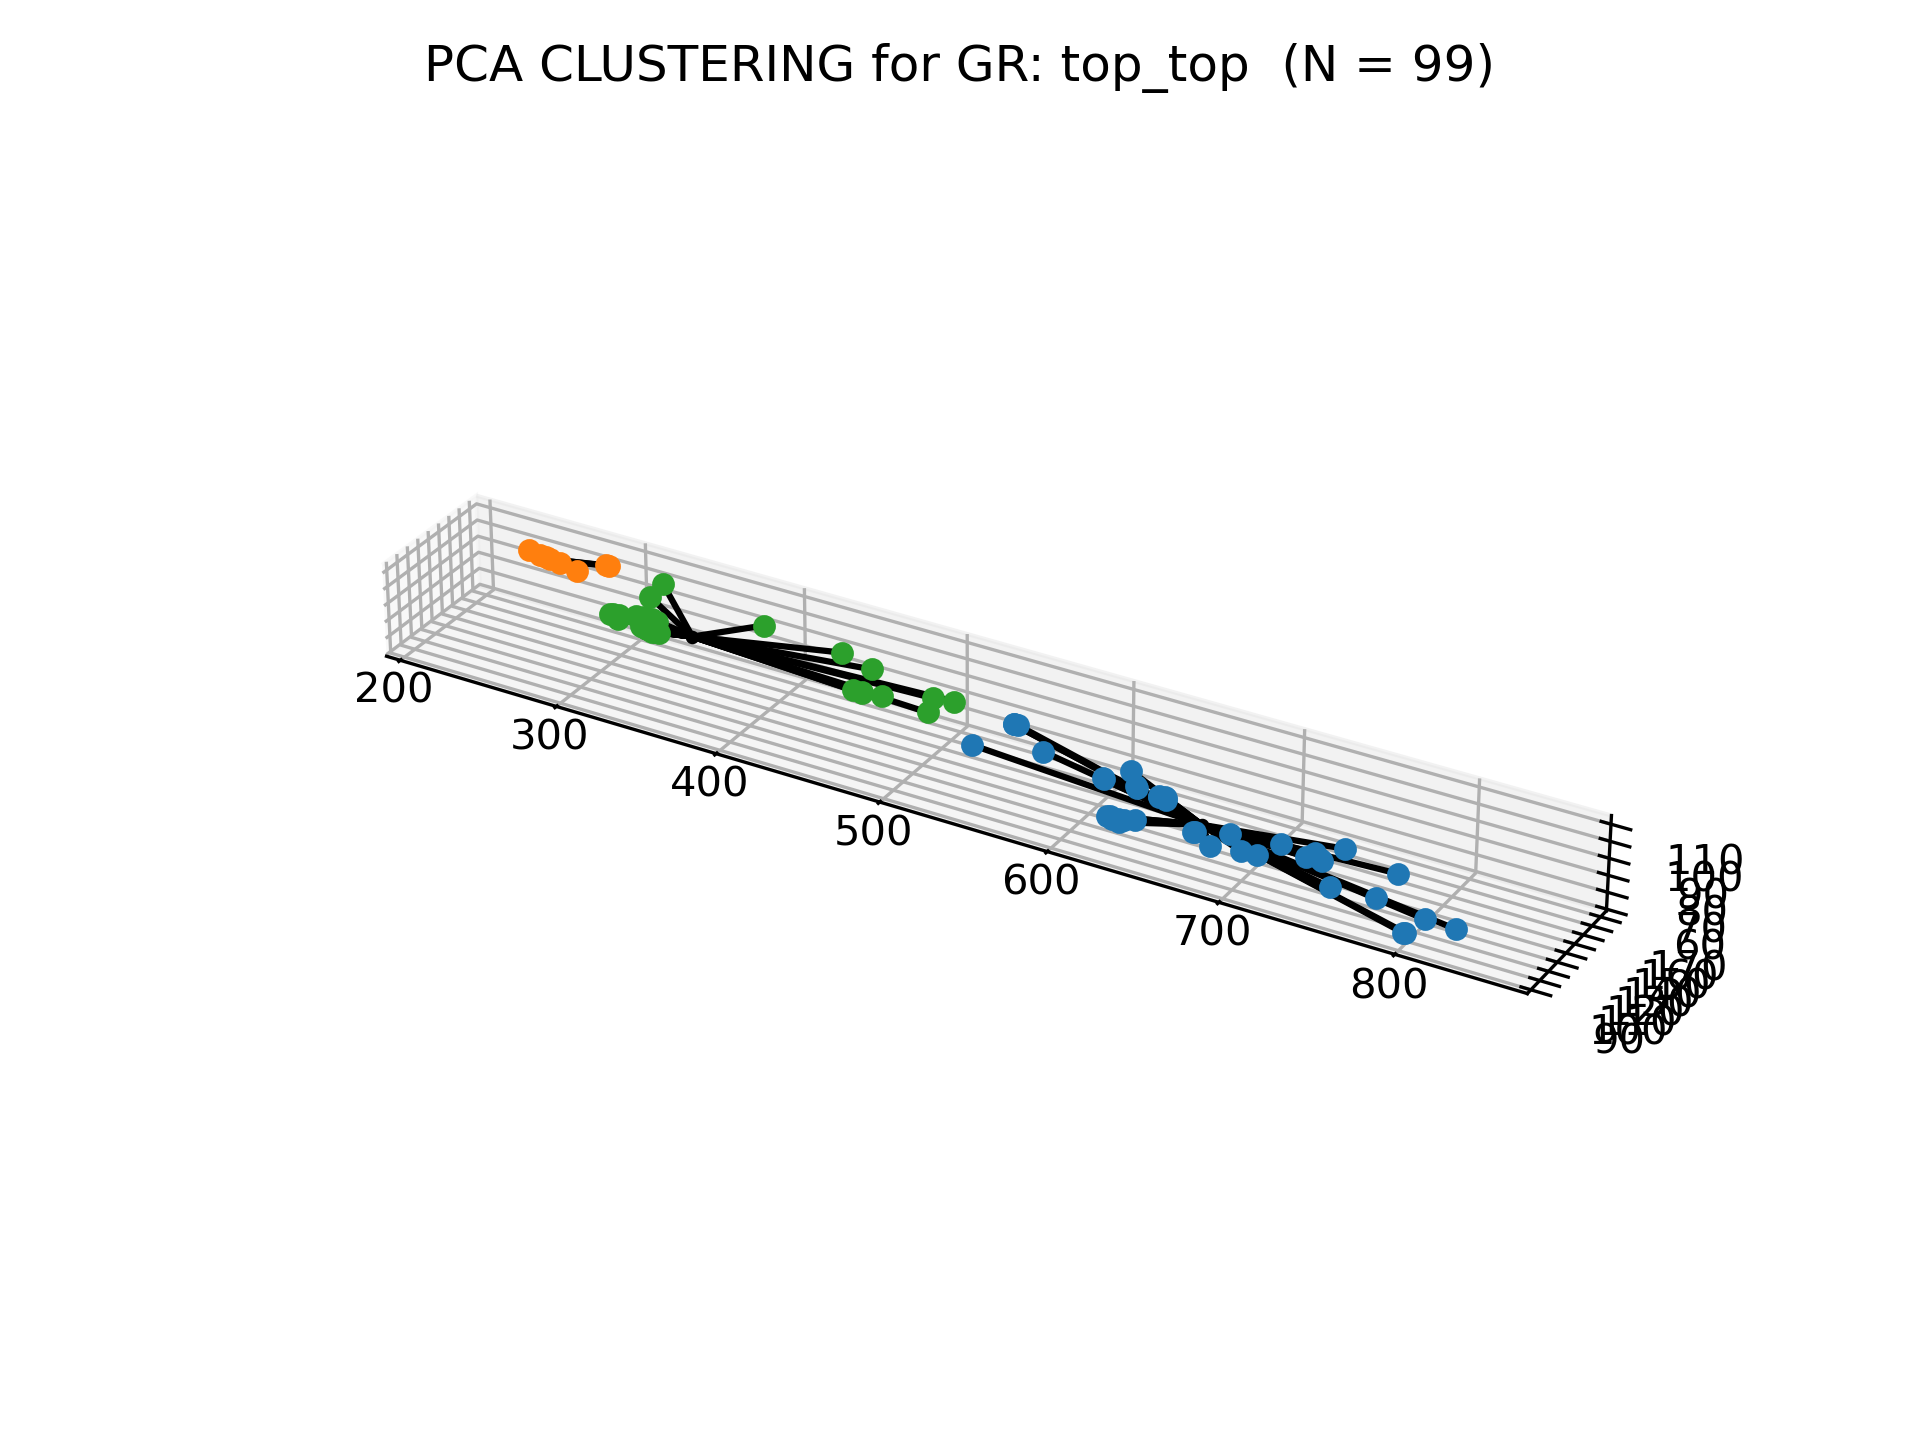
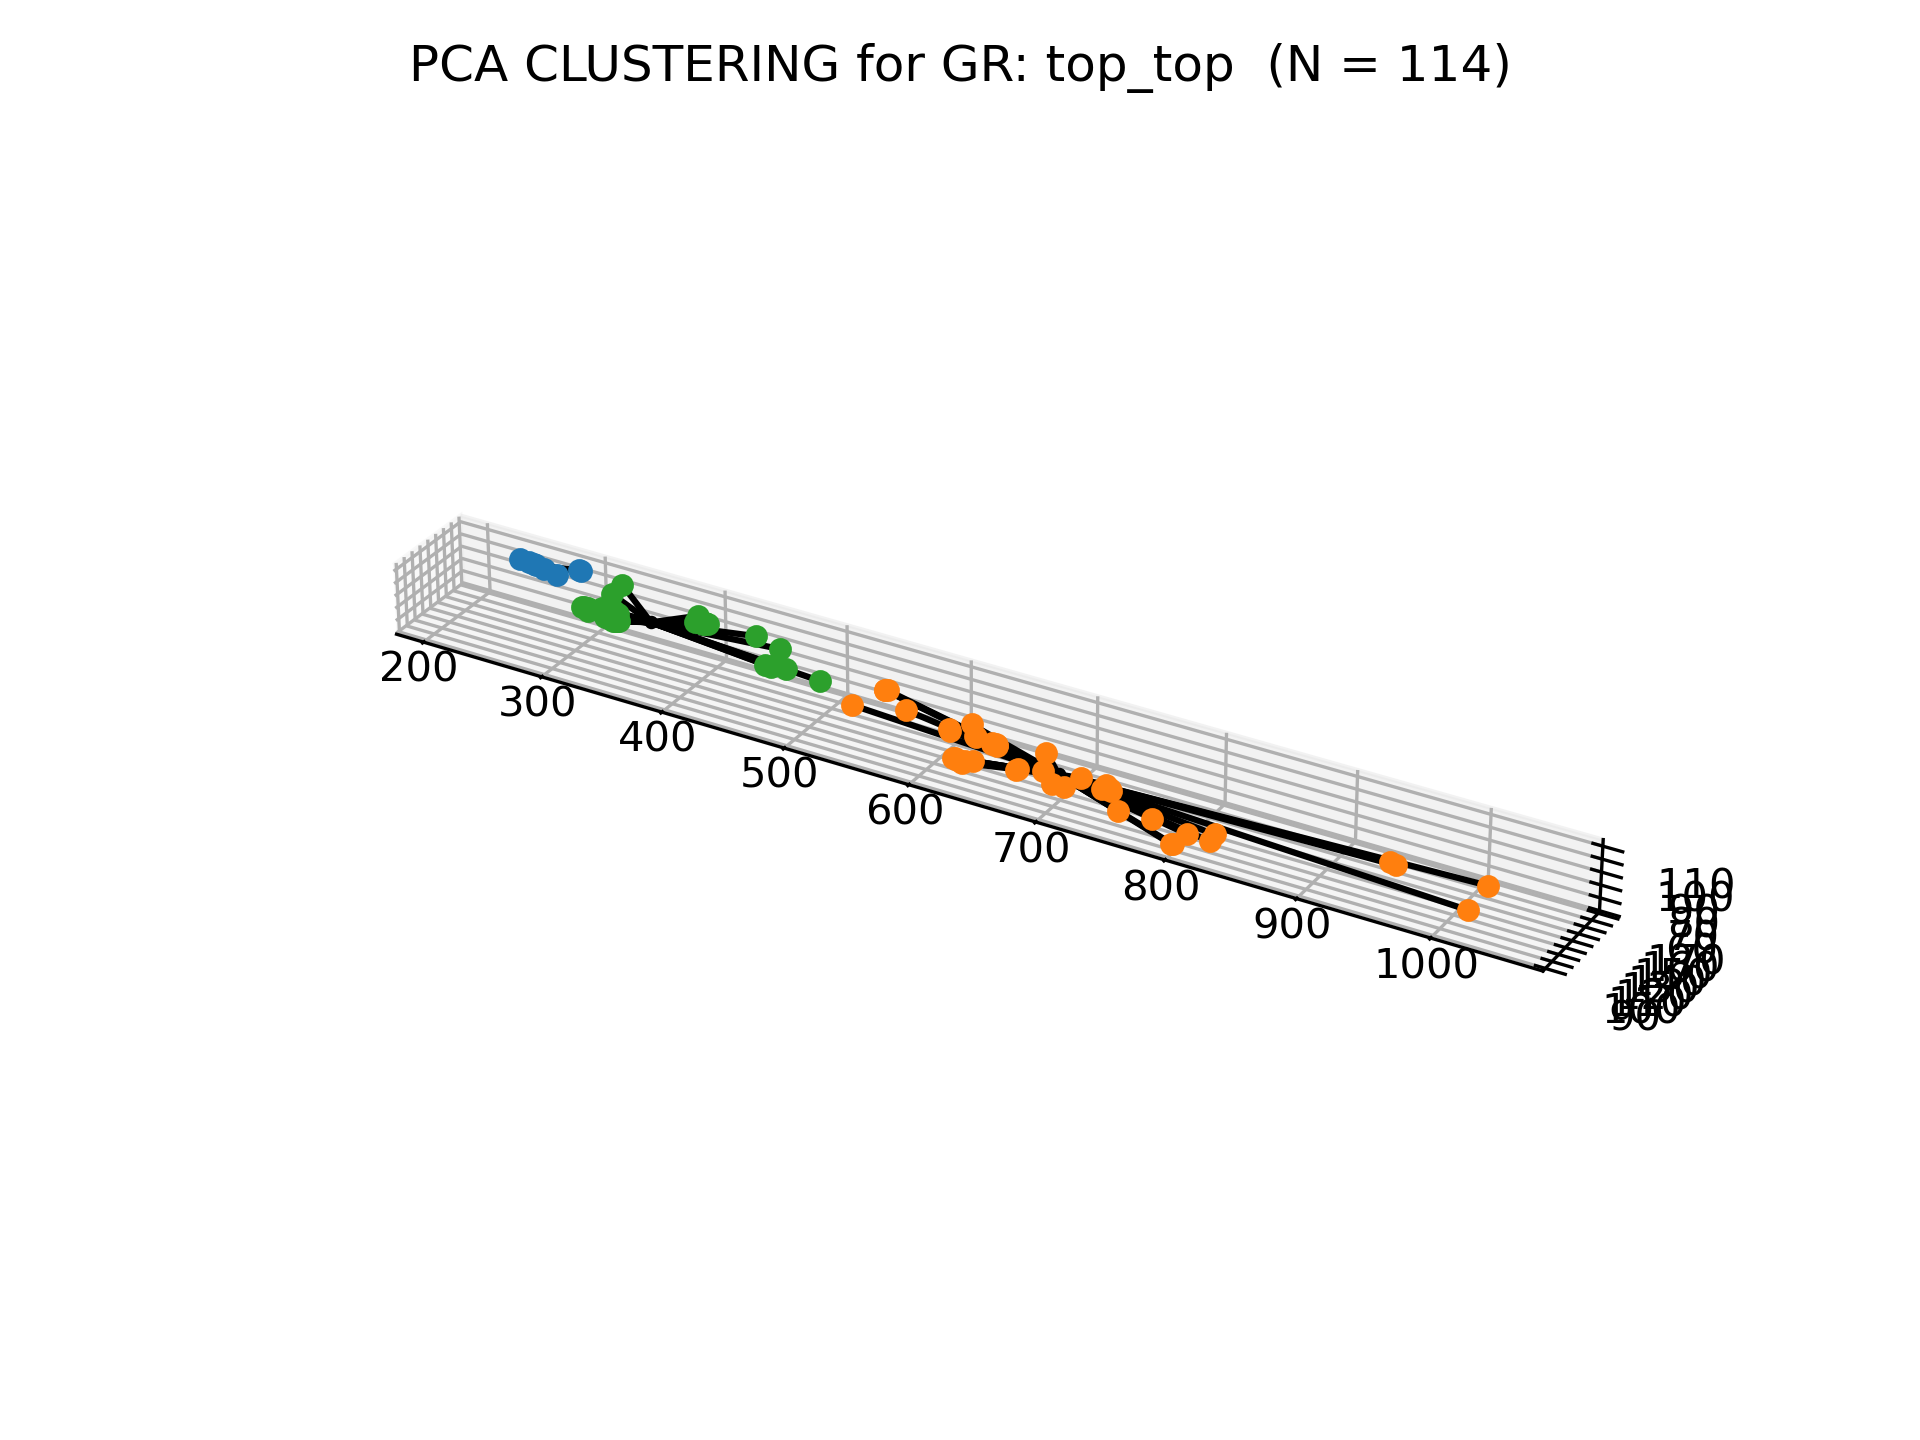
Modular cluster number to match EVA

Changed region(s): [[0.1875, 0.3438, 0.9062, 0.75], [0.2188, 0.0312, 0.7812, 0.0625]]

diff --git a/scripts/clustering.py b/scripts/clustering.py
@@ -223,7 +223,7 @@ def cc_analysis(reference, dimensions=3, force =False, subfolder = None, in_path
     print(cc_out)
 
     if "{}.csv".format(reference.name) in os.listdir(root.classified):
-        classified_df = pd.read_csv(os.path.join(root.classified, "{}.csv".format(reference.name)), index_col=0)
+        classified_df = pd.read_csv(os.path.join(root.classified, "{}.csv".format(reference.name)))
         #print(classified_df)
         classified_ids = classified_df["ID"].values
         groups = []
@@ -535,11 +535,11 @@ def compare_contacts(reference, force = False):
     classified_path = os.path.join(root.classified, "GR.csv")
 
     if os.path.exists(classified_path) and not force:
-        vars.clustering["classified"][reference.name] = pd.read_csv(classified_path, index_col=0)
+        vars.clustering["classified"][reference.name] = pd.read_csv(classified_path)
         return vars.clustering["classified"][reference.name]
 
     vars["clustering"]["classified"][reference.name] = pd.DataFrame(
-        columns=["ID", "Best_Fit", "Best_Match", "Similarity", "Inverse"])
+        columns=["ID", "Best_Fit", "Best_Match","Best_Match_String", "Similarity", "Inverse"])
     print2(reference)
     df_path = os.path.join(root.contacts, reference.name+".csv")
     contacts_df = pd.read_csv(df_path)
@@ -606,11 +606,15 @@ def compare_contacts(reference, force = False):
             similarities.append((group + 1, max([diffX, diffx]), inverse))
             print1(similarities[-1][0], round(similarities[-1][1], 2))
         best_match = max(similarities, key=lambda x: x[1])
-        print("Best match for {}: {}, with {}% similarity, inverse: {}\n".format(dimer_id, best_match[0],
+        from faces import GR_groups
+        best_match_string = GR_groups[best_match[0]]
+        print("Best match for {}: {} ({}), with {}% similarity, inverse: {}\n".format(dimer_id, best_match[0],
+                                                                                 best_match_string,
                                                                                  round(100 * best_match[1]),
                                                                                  best_match[2]))
 
         vars.clustering["classified"][reference.name].loc[dimer_id] = [dimer_id, reference.name, best_match[0],
+                                                                       best_match_string,
                                                  round(best_match[1] * 100), best_match[2]]
         progress.add()
     #classified_path = os.path.join(root.dataframes, "classified_df.csv")
@@ -642,7 +646,7 @@ def add_info_to_classified(reference):
 
 def add_clusters_to_classified(reference, pca=True):
     classified_path = os.path.join(root.classified, reference.name + ".csv")
-    classified = pd.read_csv(classified_path, index_col=0)
+    classified = pd.read_csv(classified_path)
     classified.sort_values("ID", ascending=True, inplace=True)
     #empty_face = pd.DataFrame([None]*len(classified), columns=["face_group"])
     #empty_cluster = pd.DataFrame([None]*len(classified), columns=["cluster"])
@@ -692,7 +696,16 @@ def split_by_faces(reference, force= False):
     #print(pd.DataFrame(reference.faces_dfs))
 
 
-def clusterize_pcas(subfolder, name, in_path, force = False, n_clusters = 3 , dimensions = [0,1,2]):
+def clusterize_pcas(subfolder, name, in_path, force = False, n_clusters = None , dimensions = [0,1,2]):
+
+    if n_clusters is None:
+        from faces import GR_groups
+        n_clusters = 0
+        faces = os.path.basename(in_path).split(".")[0].split("_")
+        for value in GR_groups:
+            if faces[0] == value[0] and faces[1] == value[1]:
+                n_clusters += 1
+
 
     root["clustered_pcas"] = "dataframes/clustering/clustered_pcas"
     subfolder = subfolder.format("clustered_pcas")

diff --git a/scripts/visualisation.py b/scripts/visualisation.py
@@ -62,7 +62,7 @@ def generate_html():
     pass
 
 
-def show_objects(obj_list, args, mates = False, merged = False):
+def show_objects(obj_list, args, mates = False, merged = False, paint_all_faces =True):
     for obj in obj_list:
         sprint(obj.id)
         #print(obj.__dict__)
@@ -122,11 +122,12 @@ def show_objects(obj_list, args, mates = False, merged = False):
                         else:
                             pymol_load_path(item, os.path.basename(item))
                         pymol_format("surface", os.path.basename(item), colour= "gray")
-                        if "is_reference" in obj.__dict__.keys():
-                            if obj.name == "GR" and obj.is_reference:
-                                pymol_paint_all_faces(item)
+                        if "is_reference" in obj.__dict__.keys() or paint_all_faces:
+                            if obj.best_fit == "GR":
+                                from pyMol import pymol_paint_all_faces
+                                pymol_paint_all_faces(obj)
 
-                        elif "faces" in args or True:
+                        elif "faces" in args and not paint_all_faces:
                             #print("Painting faces")
                             if "contacts_faces1" in obj.__dict__.keys():
                                 pymol_paint_contacts(os.path.basename(item), obj.contacts_faces1[1:],
@@ -197,9 +198,14 @@ def show_objects(obj_list, args, mates = False, merged = False):
                 ###
 
             from pyMol import pymol_format, pymol_orient, pymol_show_cell, pymol_hide, pymol_disable
-            pymol_format("spheres", "neighbour", "all", colour="rainbow", spectrum="b")
-            pymol_format("mesh", "original", "all", colour="white")
-            pymol_format("mesh", "processed", "all", colour="blue")
+            if paint_all_faces:
+                pymol_format("spheres", "neighbour", "all", colour="rainbow", spectrum="b")
+                pymol_format("mesh", "original", "all")
+                pymol_format("mesh", "processed", "all")
+            else:
+                pymol_format("spheres", "neighbour", "all", colour="rainbow", spectrum="b")
+                pymol_format("mesh", "original", "all", colour="white")
+                pymol_format("mesh", "processed", "all", colour="blue")
             pymol_set_state(0)
             pymol_orient()
             pymol_show_cell()

diff --git a/scripts/faces.py b/scripts/faces.py
@@ -46,6 +46,29 @@ GR_dict = {
                   770, 771, 772, 773, 774, 775, 776, 777],
 }
 
+GR_groups = {1: ("front", "front"),
+             2: ("front", "front"),
+             3: ("front", "back"),
+             4: ("front", "back"),
+             5: ("front", "base"),
+             6: ("front", "front"),
+             7: ("front", "top"),
+             8: ("front", "top"),
+             9: ("front", "front"),
+             10: ("front", "front"),
+             11: ("front", "front"),
+             12: ("base", "base"),
+             13: ("base", "top"),
+             14: ("base", "back"),
+             15: ("back", "back"),
+             16: ("back", "back"),
+             17: ("back", "back"),
+             18: ("back", "top"),
+             19: ("back", "top"),
+             20: ("top", "top"),
+             }
+GR_groups = {key:sorted(value) for key, value in GR_groups.items()}
+
 GR_colours = {"front": "purple",
               "base": "salmon",
               "back": "cyan",

diff --git a/scripts/main.py b/scripts/main.py
@@ -253,7 +253,7 @@ if __name__ == "__main__":
          MINIMUM_CONTACTS=0,  # Minimum number of contacts to consider a dimer interface
 
          # Dimer processing, includes contact calculation and face identification, generates contact dataframes
-         SKIP_DIMERS = False, # Skip the entire block (overridden by PROCESS_ALL)
+         SKIP_DIMERS = True, # Skip the entire block (overridden by PROCESS_ALL)
          FORCE_CONTACTS = False,  # Force contact calculation if already calculated (overridden by PROCESS_ALL)
          CONTACT_DISTANCE_CLUSTERING = 12,
          FACES_BY_COM = True,
@@ -270,7 +270,7 @@ if __name__ == "__main__":
          ONLY_GR = True, # Whether to only cluster GR
          FORCE_CLUSTERING = True, # Force clustering if already calculated (overridden by PROCESS_ALL)
          SPLIT_FACES = True,
-         FORCE_SPLIT = False,
+         FORCE_SPLIT = True,
          N_CLUSTERS = 4,
          CLUSTER_BY_PCA = True,
          DIMENSIONS_PCA = [0,1,2]

diff --git a/scripts/test.py b/scripts/test.py
@@ -4,7 +4,7 @@ import os
 import setup
 import time
 import sys
-# Imports that need globals initialised:
+# Imports that need globals initialized:
 from Globals import root, local, vars
 from utilities import *
 from imports import *
@@ -15,6 +15,10 @@ print1("References loaded")
 
 from faces import *
 
+for ref in vars["references"]:
+    ref.best_fit = ref.name
+    ref.pickle()
+quit()
 
 dimer_list = sorted(os.listdir(local.dimers))
 progress = ProgressBar(len(dimer_list))

diff --git a/scripts/pyMol.py b/scripts/pyMol.py
@@ -256,7 +256,15 @@ def pymol_disable(sele = "all"):
 
 
 def pymol_paint_all_faces(obj):
-    pass
+    from faces import GR_colours, GR_dict
+    assert obj.best_fit == "GR"
+    for o in pymol_get_all_objects():
+        if obj.id in o:
+            for face, ress in GR_dict.items():
+                sele = "({})".format(" or ".join( "i. {}".format(res) for res in ress))
+                print(sele)
+                pymol_colour(GR_colours[face], o, sele)
+
 
 
 
